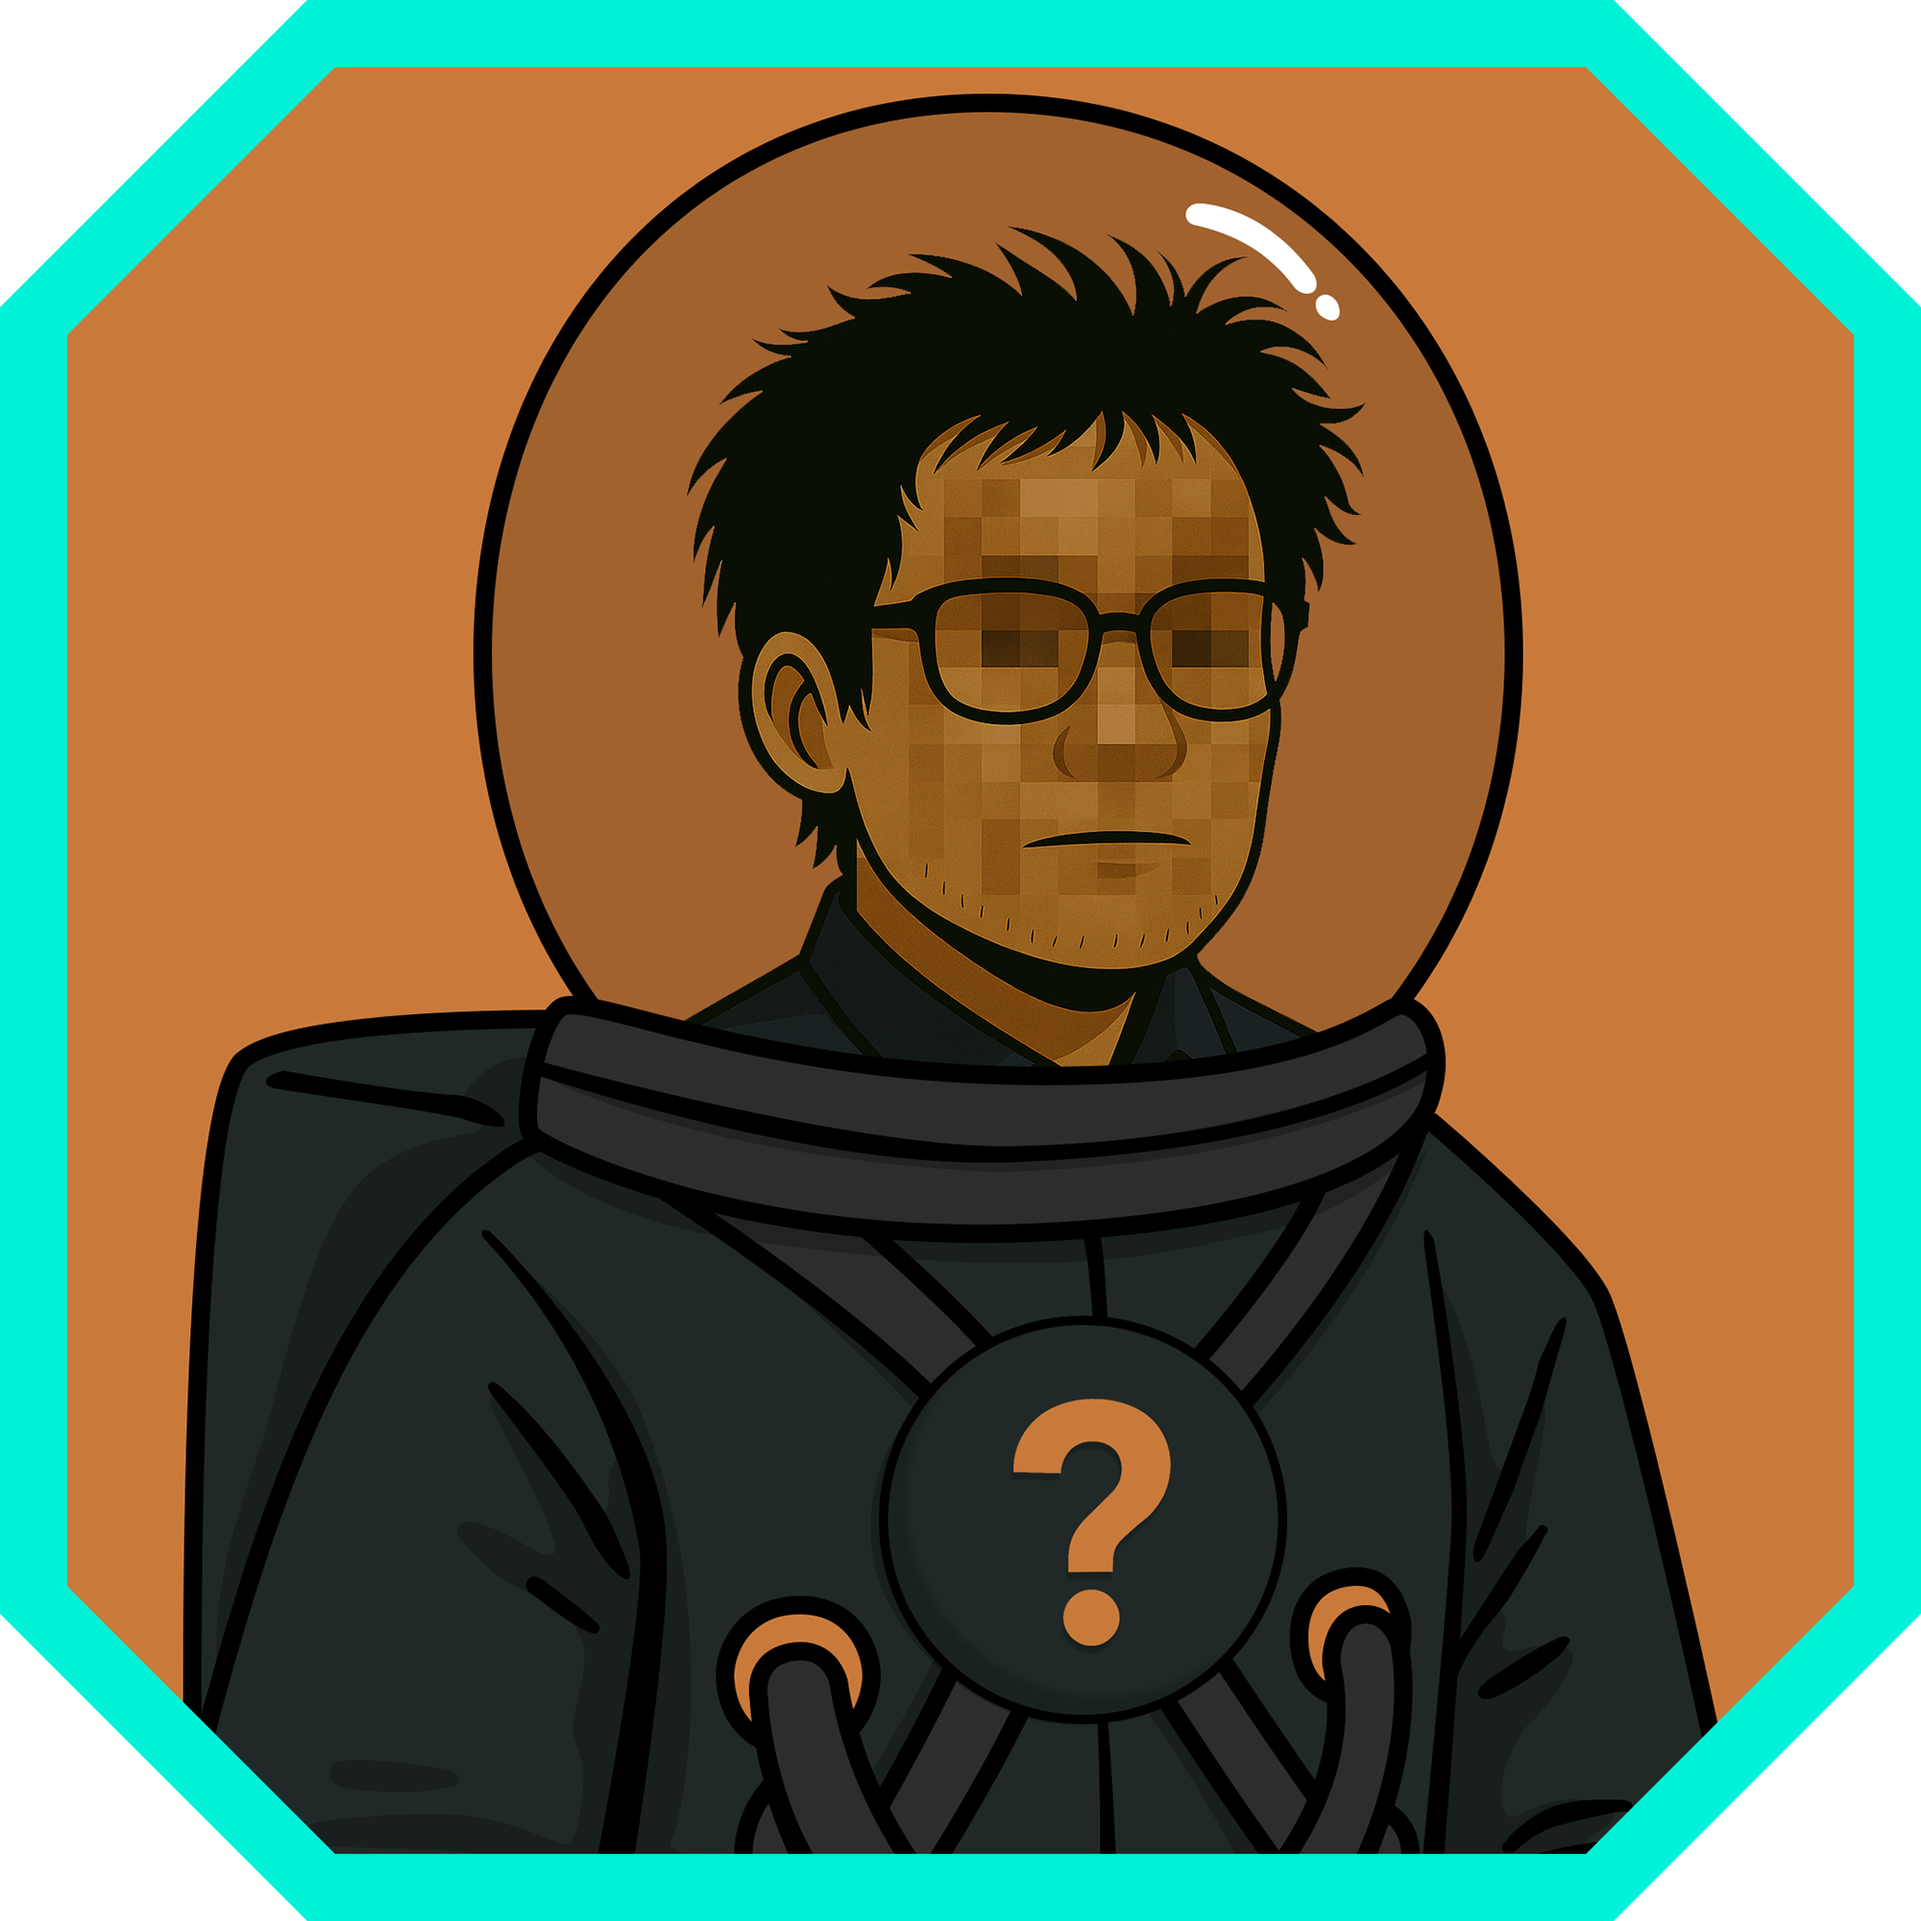
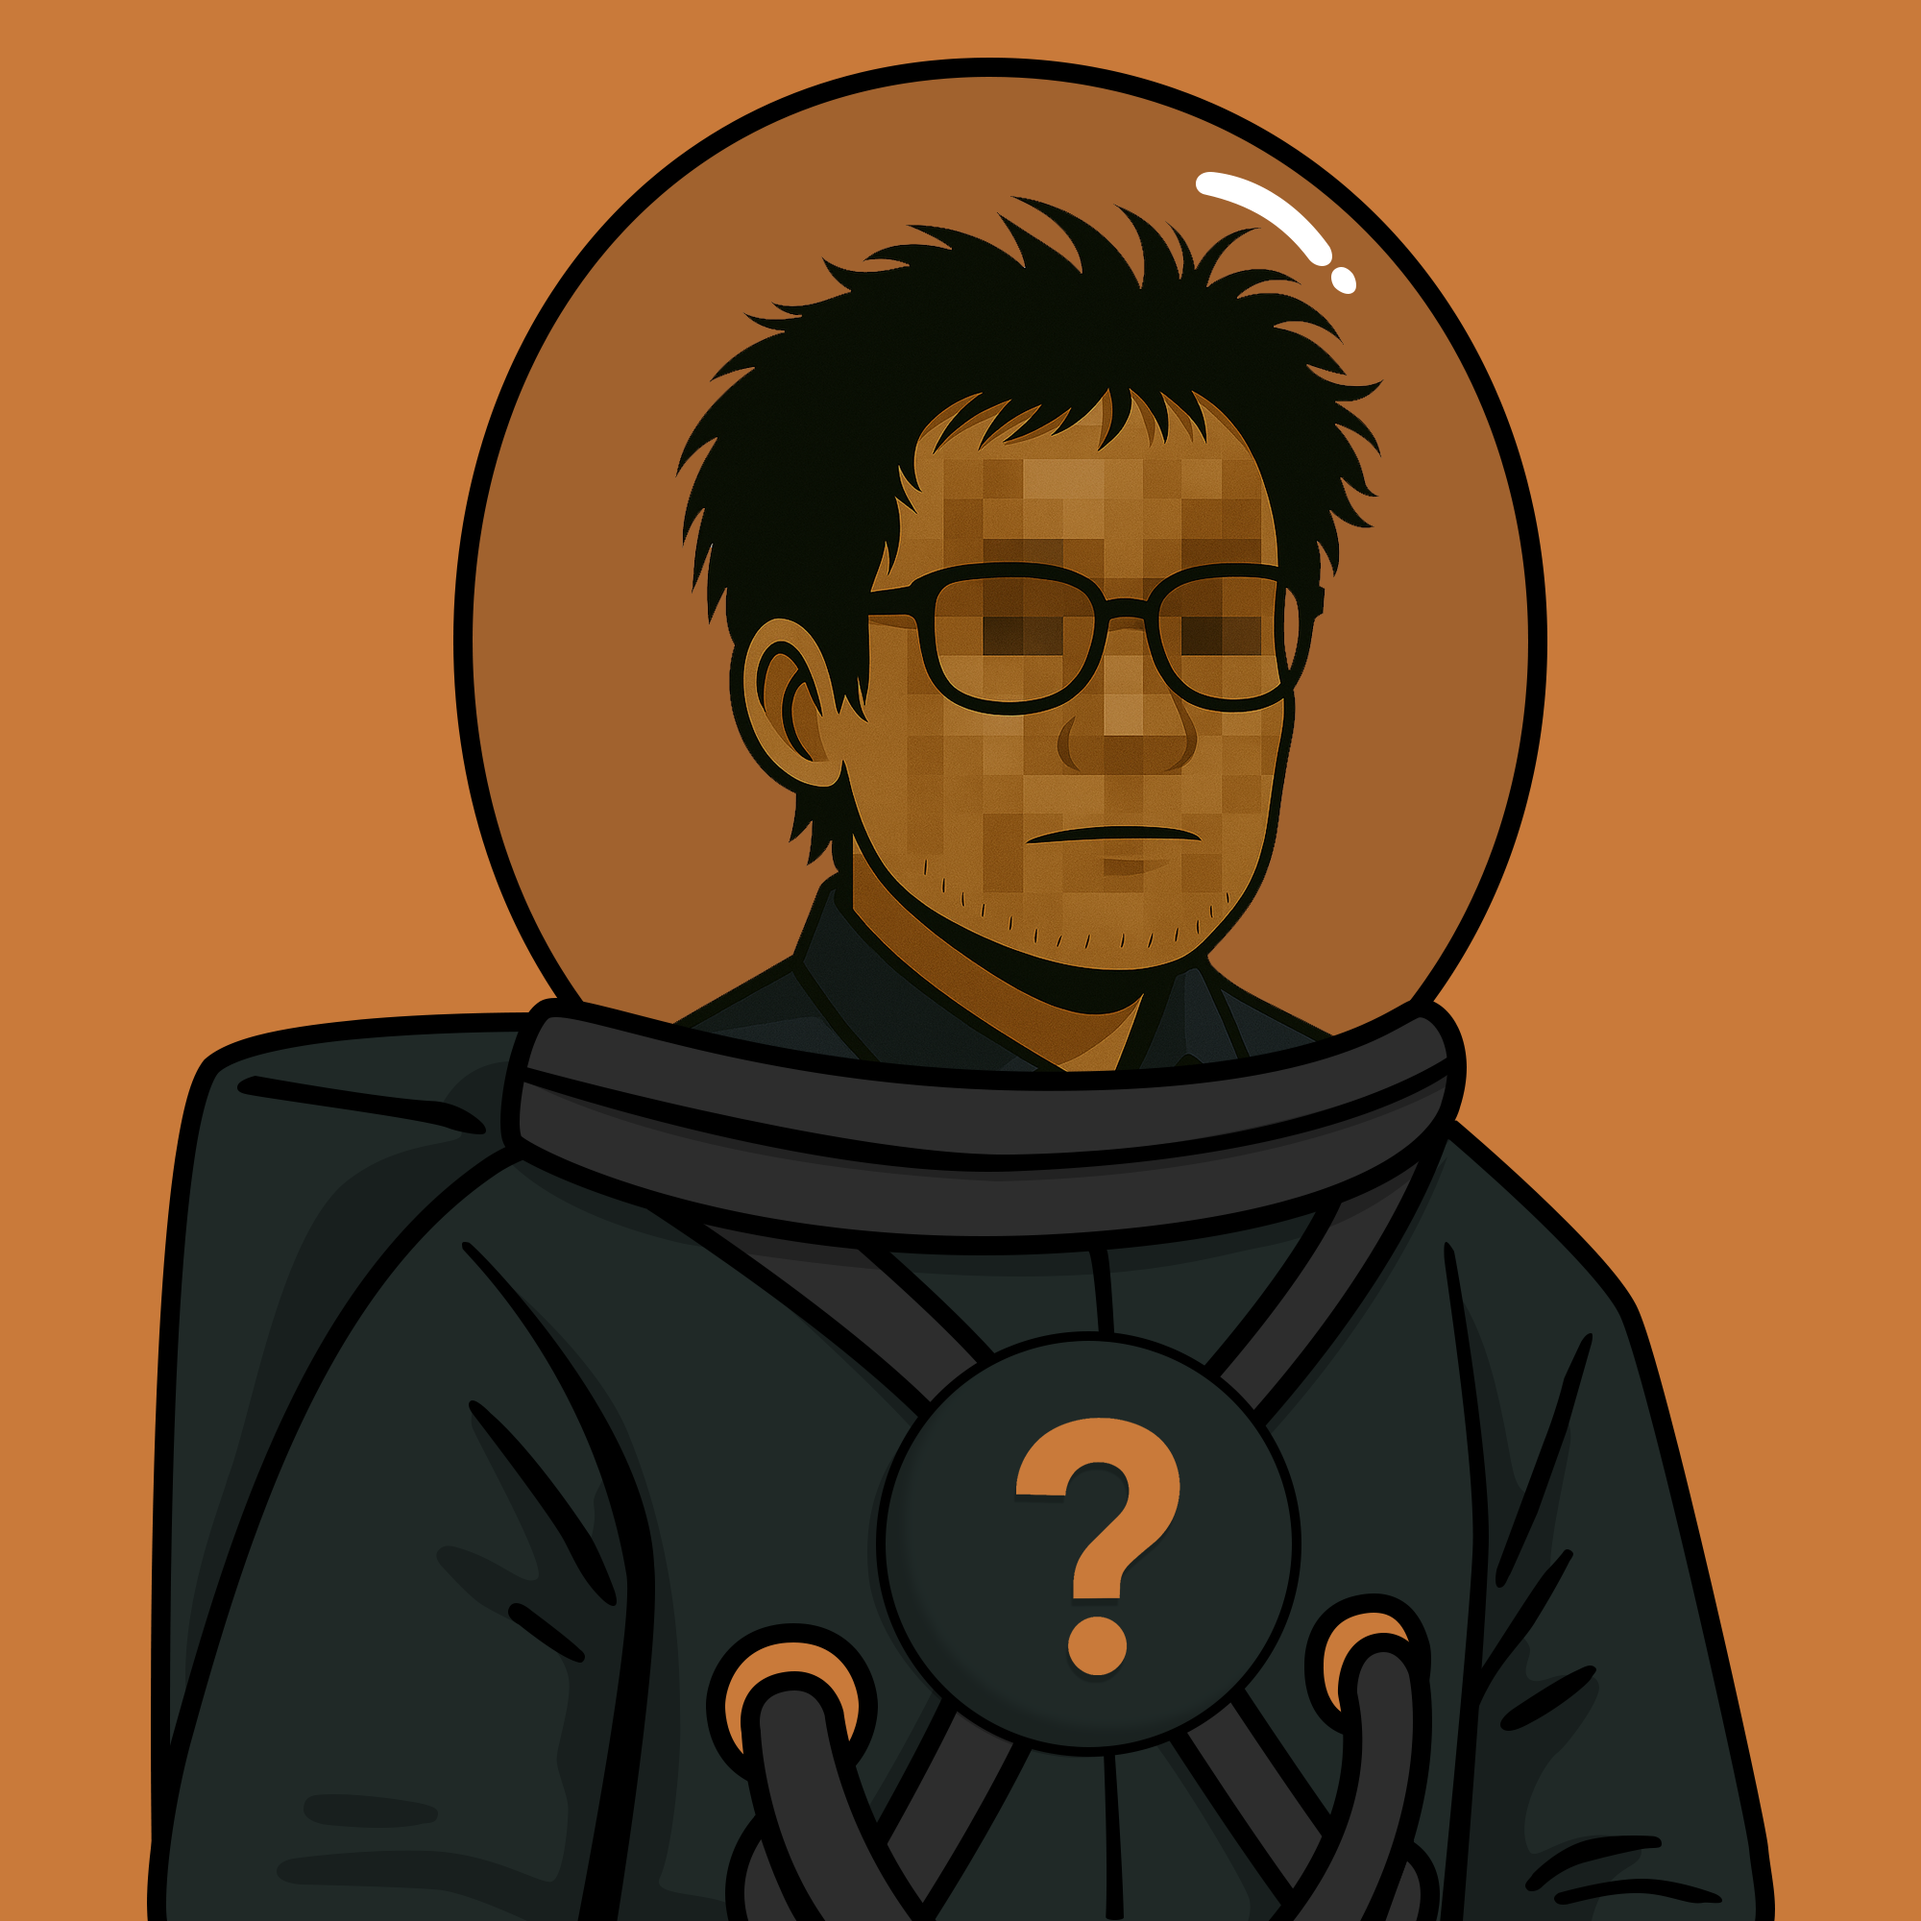
Few fixes

diff --git a/backend/server.js b/backend/server.js
@@ -287,7 +287,11 @@ app.get('/validateCoin/:ticker', async (req, res) => {
             return res.status(500).json({ error: 'Failed to fetch Nauts token price.' });
         }
 
+        await new Promise(resolve => setTimeout(resolve, 1000));
+
         const tokens = await getTokensByTicker(ticker);
+
+        await new Promise(resolve => setTimeout(resolve, 1000));
 
         // sort the tokens by pairCreatedAt in ascending order
         tokens.sort((a, b) => a.pairCreatedAt - b.pairCreatedAt);
@@ -315,7 +319,8 @@ app.get('/validateCoin/:ticker', async (req, res) => {
             await new Promise(resolve => setTimeout(resolve, 10000));
         }
         
-        res.json(tokens);
+        const contractAddresses = tokens.map(token => token.baseToken.address);
+        res.json(contractAddresses);
     }
     catch (error) {
         console.error("Error fetching tokens:", error);

diff --git a/frontend/src/pages/Home/Home.module.css b/frontend/src/pages/Home/Home.module.css
@@ -226,6 +226,14 @@
 .copyButtonContainer img{
     height: 1.15em;
 }
+.copyButtonContainer img:active{
+    transform: scale(0.85);
+    transition: all 0.2s ease-in-out;
+}
+.copyButtonContainer:hover{
+    transform: scale(1.15);
+    transition: all 0.2s ease-in-out;
+}
 
 .c1r4{
     width: 100%;

diff --git a/frontend/src/pages/Profile/Profile.module.css b/frontend/src/pages/Profile/Profile.module.css
@@ -130,6 +130,14 @@
 .copyButtonContainer img{
     height: 1.15em;
 }
+.copyButtonContainer img:active{
+    transform: scale(0.85);
+    transition: all 0.2s ease-in-out;
+}
+.copyButtonContainer:hover{
+    transform: scale(1.15);
+    transition: all 0.2s ease-in-out;
+}
 
 .c1r4{
     width: 100%;

diff --git a/frontend/src/components/Slider/Slider.css b/frontend/src/components/Slider/Slider.css
@@ -59,6 +59,11 @@
   height: 100%;
   width: 10%;
 }
+.slider-image:hover {
+  border-color: #f0f0f0;
+  transform: scale(1.05);
+  transition: transform 0.3s;
+}
 
 .slider-item-inside{
   width: 100%;
